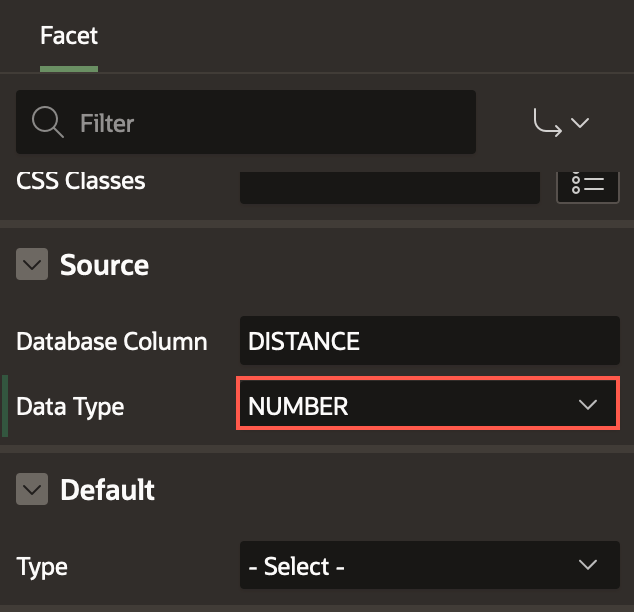
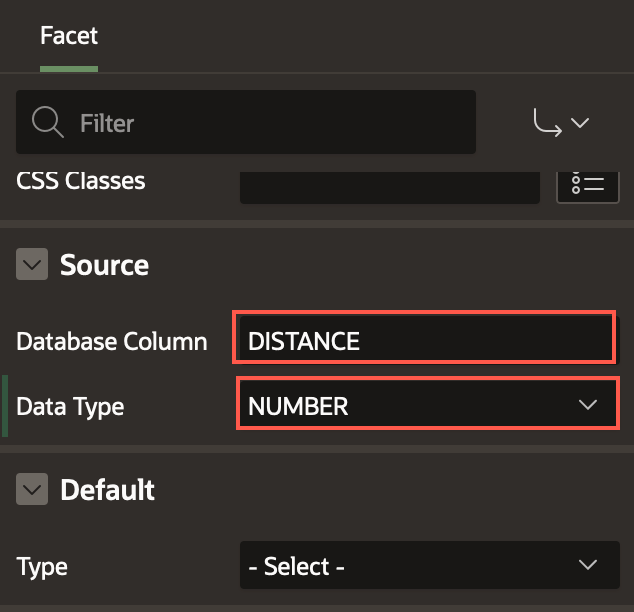
Feedback fixes

Changed region(s): [[0.3596, 0.4967, 0.989, 0.6209]]

diff --git a/nyc-genai-lab/5-apply-to-school/5-apply-to-school.md b/nyc-genai-lab/5-apply-to-school/5-apply-to-school.md
@@ -183,15 +183,17 @@ Let us create a new Form page for school application.
 
     ![Page Designer](images/final-prompt-name.png ' ')
 -->
-17. Delete the buttons that we no longer need. Select **CANCEL**, **DELETE**, and **SAVE**. Right-click and select **Delete**.
+15. Delete the buttons that we no longer need. Select **CANCEL**, **DELETE**, and **SAVE**. Right-click and select **Delete**.
     ![Page Designer](images/delete-buttons.png ' ')
 
-18. Select the **CREATE** button. In the Property editor, enter/select the following:
+16. Select the **CREATE** button. In the Property editor, enter/select the following:
 
     - Identification > Label: **Send Application**
     - Under Appearance:
         - Button Template: **Text with Icon**
         - Icon: **fa-send-o**
+
+    Click **Save**.
 
     ![Page Designer](images/edit-create.png ' ')
 
@@ -225,30 +227,31 @@ In this task, we create an AI configuration with a RAG source. This will serve a
     ![AI configuration details page](images/create-rag.png ' ')
 
 6. Enter/select the following:
-    - Name: **Details to Generate Email Text**
-    - Type: **Function Body**
-    - Language: **PL/SQL**
-    - Function Body Returning CLOB:
-    ```
-    <copy>
-    DECLARE
-    L_SCHOOL_NAME HIGHSCHOOLS.SCHOOL_NAME%TYPE;
-    L_PROMPT CLOB;
-    BEGIN
-        SELECT SCHOOL_NAME INTO L_SCHOOL_NAME FROM HIGHSCHOOLS WHERE ID = :P3_SCHOOL_ID;
-        L_PROMPT :=
-            q'[
-            Parent Name : ]'|| :P3_PARENT_NAME||chr(10)||chr(13) ||q'[
-            Applicant Name : ]'|| :P3_STUDENT_NAME||chr(10)||chr(13) ||q'[
-            School Name : ]'|| initcap(L_SCHOOL_NAME)||chr(10)||chr(13);
+    - Identification > Name: **Details to Generate Email Text**
+    - Under Source:
+        - Type: **Function Body**
+        - Language: **PL/SQL**
+        - Function Body Returning CLOB:
+        ```
+        <copy>
+        DECLARE
+        L_SCHOOL_NAME HIGHSCHOOLS.SCHOOL_NAME%TYPE;
+        L_PROMPT CLOB;
+        BEGIN
+            SELECT SCHOOL_NAME INTO L_SCHOOL_NAME FROM HIGHSCHOOLS WHERE ID = :P3_SCHOOL_ID;
+            L_PROMPT :=
+                q'[
+                Parent Name : ]'|| :P3_PARENT_NAME||chr(10)||chr(13) ||q'[
+                Applicant Name : ]'|| :P3_STUDENT_NAME||chr(10)||chr(13) ||q'[
+                School Name : ]'|| initcap(L_SCHOOL_NAME)||chr(10)||chr(13);
 
-        return L_PROMPT;
+            return L_PROMPT;
 
-    END;
-    </copy>
-    ```
+        END;
+        </copy>
+        ```
       
-      Click **Create**.
+        Click **Create**.
 
     ![AI configuration details page](images/rag-details.png ' ')
 
@@ -273,16 +276,17 @@ In this task, we use the 'Generate Text with AI' dynamic action to generate emai
     ![Page Designer](images/name-da.png ' ')
 
 4. Under True, select **Show**. In the Property Editor, enter/select the following:
-    - Action: **Execute Server-side Code**
-    - Language: **PL/SQL**
-    - PL/SQL Code: **null;**
-    - Items to Submit: **P3_SCHOOL_ID,P3_PARENT_NAME,P3_STUDENT_NAME**
+    - Identification > Action: **Execute Server-side Code**
+    - Under Settings:
+        - Language: **PL/SQL**
+        - PL/SQL Code: **null;**
+        - Items to Submit: **P3\_SCHOOL\_ID,P3\_PARENT\_NAME,P3\_STUDENT\_NAME**
 
     This True action is executed in order to submit the values of School ID, parent name and student name to the server. By doing so, we can be rest assured that the correct values are picked by the AI configuration we created in the previous task.
 
     ![Page Designer](images/exec-server-side.png ' ')
 
-5. Select the page items **P3_SCHOOL_ID**, **P3_PARENT_NAME** and **P3_STUDENT_NAME**. In the Property Editor, under Session Stage, for Storage select **Per Session (Persistent)**.
+5. Select the page items **P3\_SCHOOL\_ID**, **P3\_PARENT\_NAME** and **P3\_STUDENT\_NAME**. In the Property Editor, under Session Stage, for Storage select **Per Session (Persistent)**.
 
     ![Page Designer](images/change-session-state.png ' ')
 
@@ -293,10 +297,10 @@ In this task, we use the 'Generate Text with AI' dynamic action to generate emai
 7. In the Property Editor, enter/select the following:
     - Action: **Generate Text with AI**
     - Generative AI > Configuration: **Generate Text AI**
-    - Input Calue > Type: **Only System Prompt**
+    - Input Value > Type: **Only System Prompt**
     - Use Response:
         - Type: **Item**
-        - Item: **P3_EMAIL**
+        - Item: **P3\_EMAIL**
 
     ![Page Designer](images/generate-text-true-action.png ' ')
     
@@ -370,10 +374,10 @@ In this task, we use the 'Generate Text with AI' dynamic action to generate emai
 
     ![Page Designer](images/apply-action.png ' ')
 
-5. In the left pane, select **Search Results**. In the Property Editor, switch to Attributes tab and edit the following:
+5. In the left pane, select **Search Results**. In the Property Editor, switch to **Attributes** tab and edit the following:
     - Under Icon and Badge:
-        - Badge Column: **APPLICATION_STATUS**
-        - Badge CSS Classes: **&DISPOSITION_CSS.**
+        - Badge Column: **APPLICATION\_STATUS**
+        - Badge CSS Classes: **&DISPOSITION\_CSS.**
 
      ![Page Designer](images/search-attributes.png ' ')
 

diff --git a/nyc-genai-lab/7-vector-search/7-vector-search.md b/nyc-genai-lab/7-vector-search/7-vector-search.md
@@ -88,7 +88,7 @@ Vector providers are configured to convert text into an embedding.
     ![Vector Providers page](images/create-vp.png ' ')
 
 4. In the Vector Provider Details page, enter/select the following:
-    - Provider Type:** Database ONNX Model**
+    - Provider Type: **Database ONNX Model**
     - Name: **DB ONNX Model**
     - Static ID: **db\_onnx\_model**
     - ONNX Model Owner: *Select your Parsing Schema*
@@ -219,7 +219,8 @@ Search Configuration contains information about a searchable data source.
 
 5. Enter/select the following:
     - Vector Provider: **DB ONNX Model**
-    - Table/View Name: **HIGH_SCHOOL_INFO**
+    - Table/View Name: **HIGH\_SCHOOL\_INFO**
+    
     Click **Next**.
 
     ![Create Search Configurations page](images/sc-detail-2.png ' ')
@@ -228,6 +229,7 @@ Search Configuration contains information about a searchable data source.
     - Primary Key Column: **ID (Number)**
     - Vector Column: **CHUNK\_V (Vector)**
     - Title Column: **CHUNK\_C (Clob)**
+    
     Click **Create Search Configuration**.
 
     ![Create Search Configurations page](images/sc-detail-3.png ' ')
@@ -273,7 +275,7 @@ In this task, we update the RAG source to use the vector we created. The Learn M
     ```
     ![RAG sources page](images/edit-rag-sql.png ' ')
 
-## Run the Application
+## Task 7: Run the Application
 
 1. From the Generative AI Configuration page, click **Run App** to see vector search in action.
 
@@ -295,7 +297,13 @@ In this task, we update the RAG source to use the vector we created. The Learn M
 
     ![App builder](images/sql-commands-3.png ' ')
 
-6. Run the following SQL command to see how the **CONTENT\_LENGTH** column shows significant decrease in the length. 
+6. Run the following SQL command to see how the **CONTENT\_LENGTH** column shows significant decrease in the length:
+
+    ```
+    <copy>
+        select * from APEX_WEBSERVICE_LOG order by request_date desc;
+    </copy>
+    ```
 
     ![SQL commands page](images/observe-length.png ' ')
 

diff --git a/nyc-genai-lab/2-schools-on-map/2-schools-on-map.md b/nyc-genai-lab/2-schools-on-map/2-schools-on-map.md
@@ -59,8 +59,7 @@ In this lab, you will:
         - Primary Key Column: **ID**
     - Point Objects > Shape: **Pin Circle**
 
-    - Under Appearance:
-        - Stroke Color: **#ffffff**
+    - Appearance > Stroke Color: **#ffffff**
 
     ![Page designer](images/school-layer-2.png =40%x*)
 
@@ -343,7 +342,7 @@ In this task, you add a new Distance facet to filter schools based on Spatial di
 
     ![Page Designer](images/distance-facet.png =40%x*)
 
-    - Under List of Values,
+    - Under List of Values:
         - Type: **Static Values**
         - Static Values:
 
@@ -362,7 +361,9 @@ In this task, you add a new Distance facet to filter schools based on Spatial di
 
         ![Page Designer](images/static-values.png ' ')
 
-    - Source > Data Type: **Number**
+    - Under Source:
+        - Database Column: **DISTANCE**
+        - Data Type: **Number**
 
        ![Page Designer](images/data-type-number.png =40%x*)
 

diff --git a/nyc-genai-lab/1-create-app/1-create-app.md b/nyc-genai-lab/1-create-app/1-create-app.md
@@ -178,7 +178,7 @@ In this task, we configure the Cards region to display the information that we n
 
     In the Property Editor, switch to the **Attributes** tab and enter the following:
         
-        - Total Row Count Label: **Schools:**
+    - Total Row Count Label: **Schools:**
 
     ![Page Designer](images/row-count-label.png " ")
 

diff --git a/nyc-genai-lab/4-using-genai/4-using-genai.md b/nyc-genai-lab/4-using-genai/4-using-genai.md
@@ -76,6 +76,7 @@ In this lab, you will:
     - Under Identification:
         - Name: **P2\_SCHOOL\_ID**
         - Type: **Hidden**
+        
         Click **Save**.
 
     ![Page Designer](images/school-id.png ' ')
